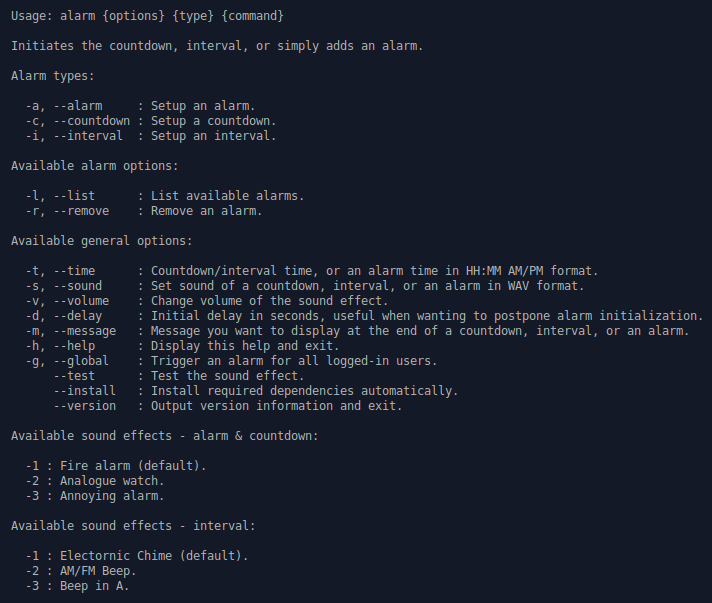
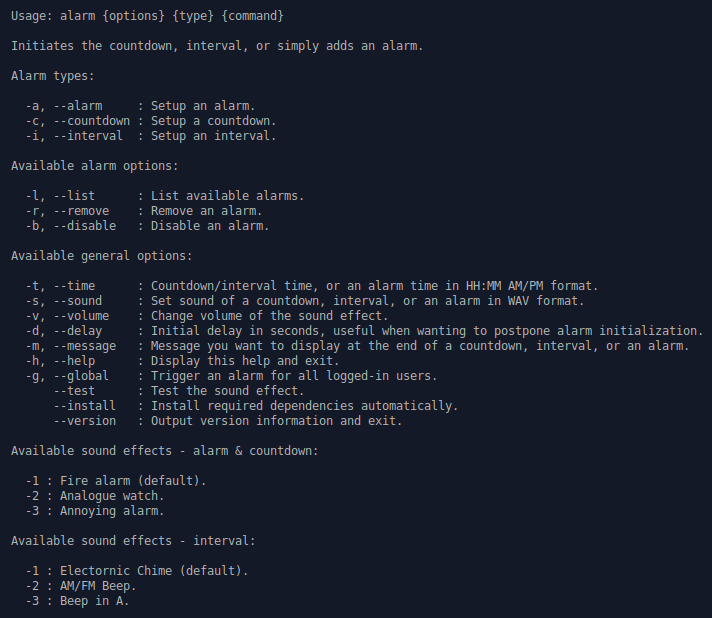
Added parameter for disabling alarms.

diff --git a/README.md b/README.md
@@ -85,7 +85,15 @@ Appropriate CRON job is created whenever you add an alarm, which may be a hassle
 bash ./alarm.sh -r 1
 ```
 
-### Example 7 - Initialization Delay
+### Example 7 - Disabling Alarms
+
+In some cases you would want to temporarily disable an alarm, which can be achieved using the "-b" flag.
+
+```bash
+bash ./alarm.sh -b 1
+```
+
+### Example 8 - Initialization Delay
 
 Sometimes you may want to start a countdown after a slight delay, in this example we are starting a 10m countdown with a 10 second delay. Like before, a generic alarm sound will be palyed after the countdown.
 
@@ -93,7 +101,7 @@ Sometimes you may want to start a countdown after a slight delay, in this exampl
 bash ./alarm.sh -t 10m -d 10 -c
 ```
 
-### Example 8 - Command Execution
+### Example 9 - Command Execution
 
 Usually, you would want to execute a certain command after a countdown, interval or an alarm. This example shows you how to do just that, execute an arbitrary command after a 10s countdown.
 
@@ -101,7 +109,7 @@ Usually, you would want to execute a certain command after a countdown, interval
 bash ./alarm.sh -t 10s -c "echo 'Hello World!'"
 ```
 
-### Example 9 - Alternative Sound Effect
+### Example 10 - Alternative Sound Effect
 
 You can easily change the default sound effect by providing an ID of a built-in sound effect.
 
@@ -115,7 +123,7 @@ Or you can, alternatively, just point to your own sound effect.
 bash ./alarm.sh -t 10s -s /path/to/your/folder/effect.wav -c
 ```
 
-### Example 10 - Sound Volume
+### Example 11 - Sound Volume
 
 Flag "-v" is used to temporarily change the master volume during the alarm to a percentage of your choosing. It is a great way to avoid missing an alarm.
 
@@ -123,7 +131,7 @@ Flag "-v" is used to temporarily change the master volume during the alarm to a 
 bash ./alarm.sh -t 10s -v 100 -c
 ```
 
-### Example 11 - Displaying Messages
+### Example 12 - Displaying Messages
 
 You can display a custom message when the alarm is triggered using the "-m" flag.
 
@@ -131,7 +139,7 @@ You can display a custom message when the alarm is triggered using the "-m" flag
 bash ./alarm.sh -t 10s -m "My alarm message!" -c
 ```
 
-### Example 12 - Global Alarms
+### Example 13 - Global Alarms
 
 If you want to set a countdown, interval, or an alarm that will trigger for all logged-in users, you should use the "--global" flag.
 
@@ -139,7 +147,7 @@ If you want to set a countdown, interval, or an alarm that will trigger for all 
 bash ./alarm.sh --global -t 1m -c
 ```
 
-### Example 13 - Dependency Installation
+### Example 14 - Dependency Installation
 
 **Alarm** doesn't have a lot of dependencies but, in any case, there's a way to install them quickly and effortlessly.
 
